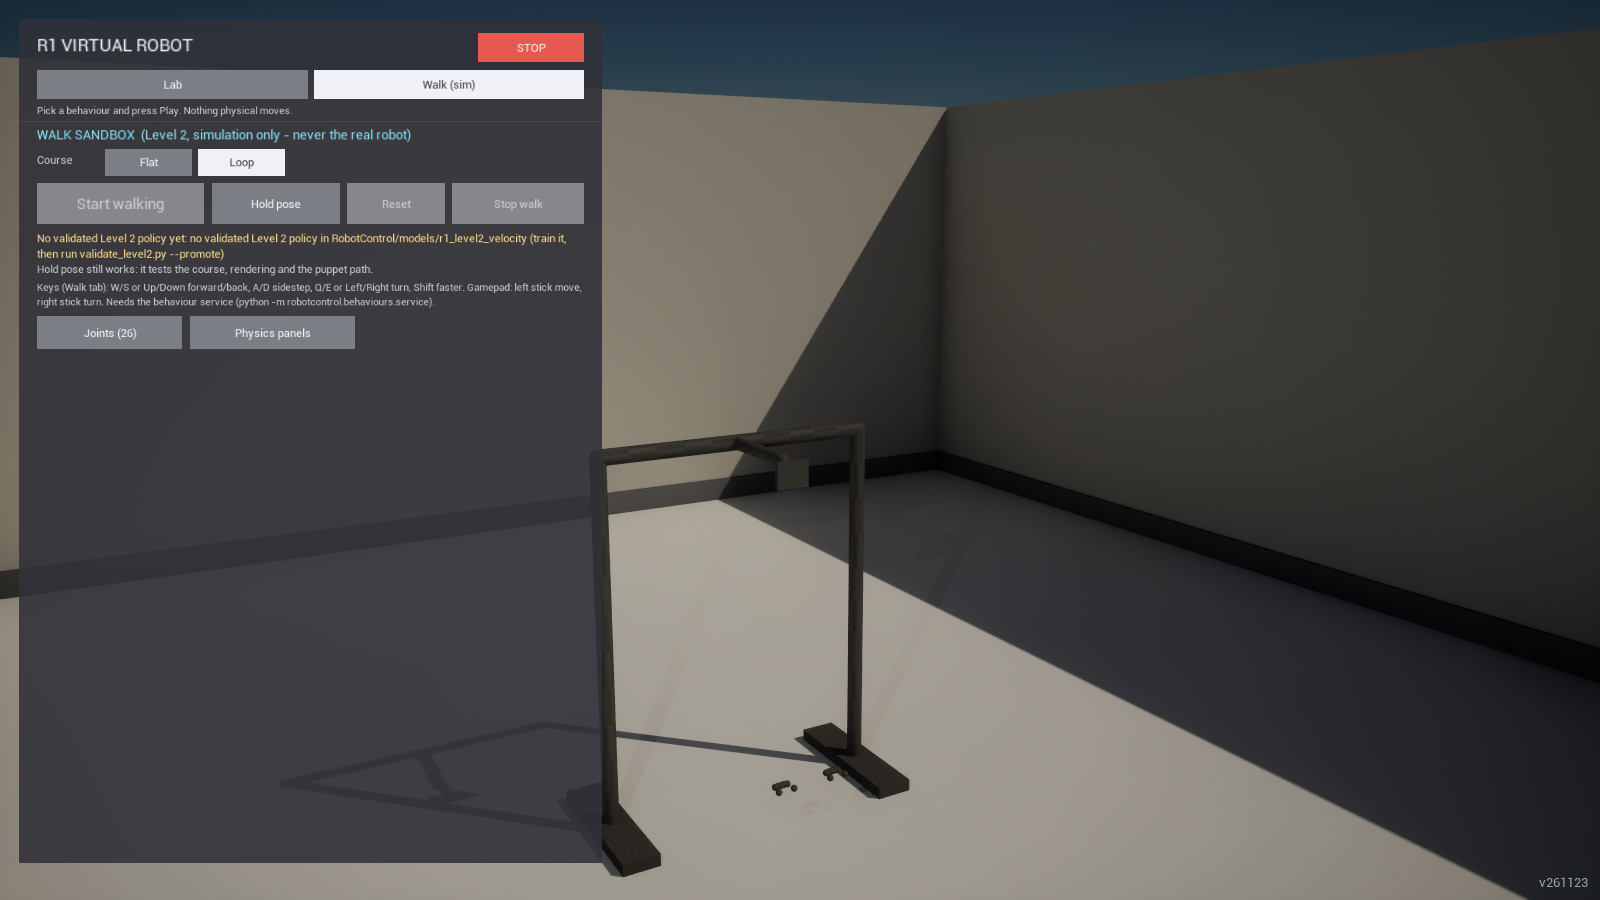
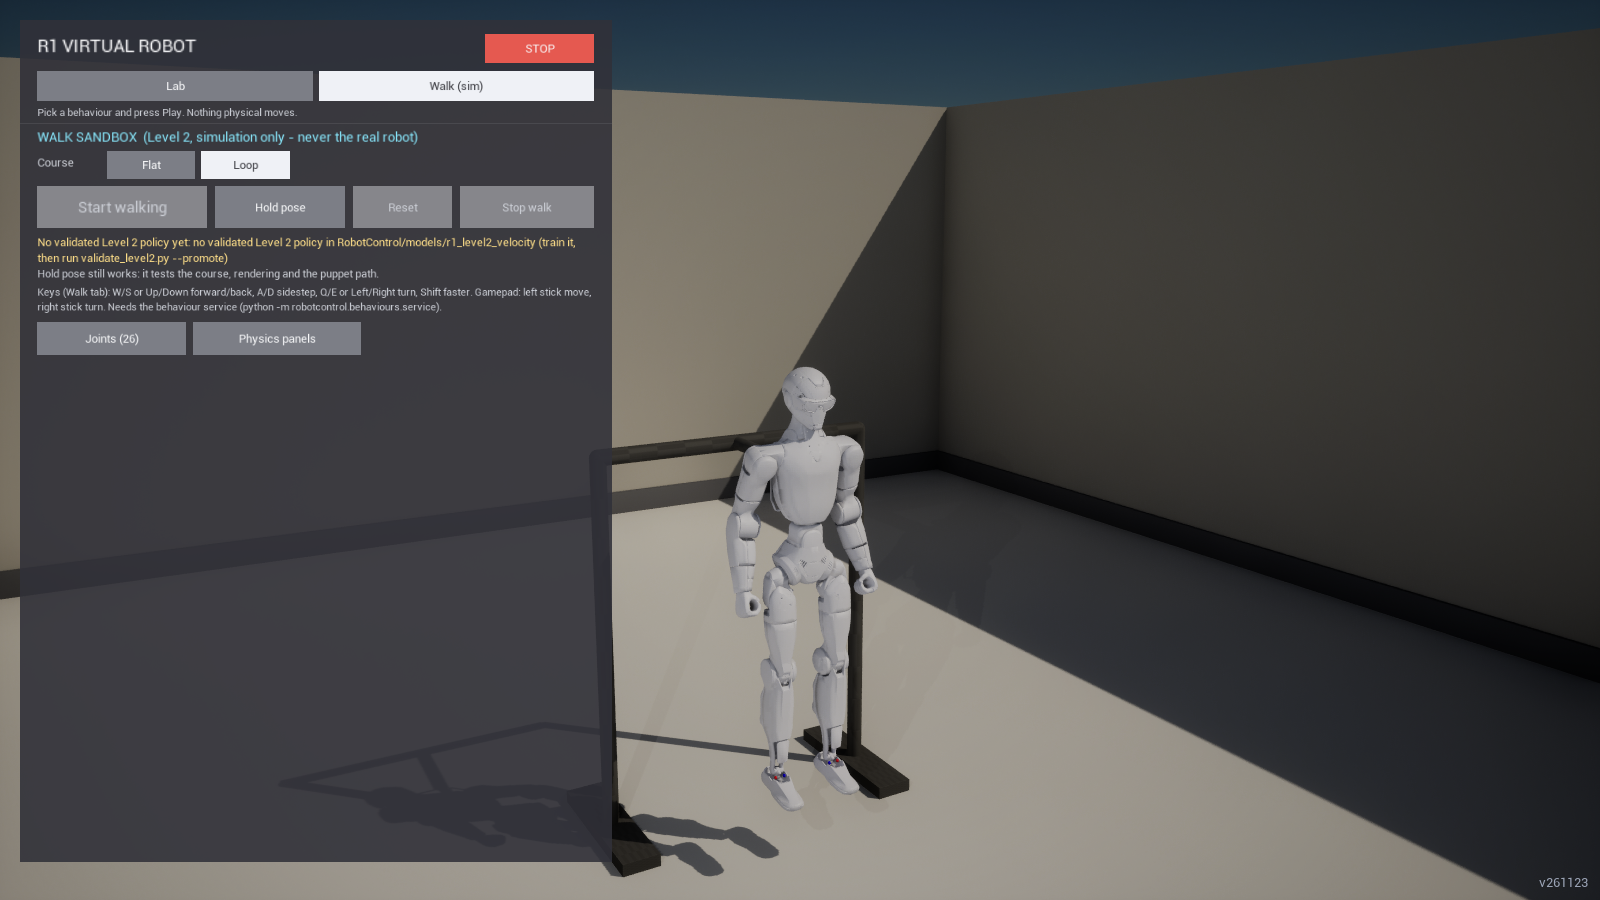
feat: Add support for taught poses in skill library
- Introduced `bPose`, `PoseYawRad`, `PosePitchRad`, and `PoseCommand` to `FR1SkillDef` for handling taught poses.
- Enhanced `R1SkillLibrary.cpp` to parse pose data from JSON, including yaw and pitch angles.
- Implemented validation for required pose fields in JSON.
- Updated `Reference` method to output pose angles when `bPose` is true.
- Added new scenarios for calm and stress testing in the lab environment.
- Created new procedural and push test scenarios for enhanced robot training.
- Developed a comprehensive scenario validation script to ensure scenario integrity.
- Added a new Blazor component for displaying walk simulation features, including physics, motors, battery, action filter, and fall analysis.

diff --git a/SCREENSHOTS/scenario_lab_report.html b/SCREENSHOTS/scenario_lab_report.html
@@ -50,6 +50,13 @@ STOP and Details (<code>R1BehaviourPanel.h</code>).</p>
 <figure><img src="unreal_lab/lab_watch.png" alt="After: Place row, In a room selected"><figcaption>After: the Place row, with <i>In a room</i> selected.</figcaption></figure>
 </div>
 <figure><img src="unreal_lab/lab_outside.png" alt="Outside on a concrete floor"><figcaption>Outside: an open area with a 400 m concrete floor and expansion joints every 4 m near the robot. Look At still tracks the ball (1.8°). The floor casts no shadows, so Unreal's shadow and Lumen budgets stay small.</figcaption></figure>
+<h2>Stand: hooked at the back (2026-11-22)</h2>
+<p>The stand now matches the R1 EDU stand: the crossbar sits behind the robot at mid-back height, and the hook latches onto a plate on the back pack, where the Jetson is. Nothing is at head height.</p>
+<div class="row">
+<figure><img src="unreal_lab/before_place/lab_watch.png" alt="Before: crossbar at head height"><figcaption>Before: the crossbar and hook were at neck height, so the stand looked like it held the head.</figcaption></figure>
+<figure><img src="unreal_lab/lab_watch.png" alt="After: crossbar behind the shoulders"><figcaption>After: the crossbar is behind the shoulders, and Look At still tracks (1.6°).</figcaption></figure>
+</div>
+<figure><img src="unreal_lab/stand_back_hook.png" alt="Rear view: hook on the back pack plate"><figcaption>From behind (MuJoCo render of the same scene file): the arm ends in a hook plate (yellow) on the back pack, inside its handle frame.</figcaption></figure>
 </main>
 </body>
 </html>

diff --git a/docs/scenario_lab.md b/docs/scenario_lab.md
@@ -59,6 +59,25 @@ reloads the skills (picking up a just-trained or rolled-back version), switches 
 While a Python client drives URLab, the lab lets go of the actuators and waits. That covers the web app's twin
 preview with *Twin engine: Unreal*, the live mirror of a real run, and the walk sandbox.
 
+## The stand
+
+The virtual robot hangs on the R1 EDU stand the way the real one does: two posts and a crossbar behind the robot
+at mid-back height, an arm forward, and a hook that latches onto the back pack where the Jetson sits. Nothing is at
+head height, so the head turns and nods freely. The stand is drawn only; the robot is held by a pelvis weld.
+The geometry comes from `scripts/build_mjcf.py`. After changing it, rebuild the MJCF and re-import it into the
+editor (the editor must be open):
+
+```powershell
+.venv\Scripts\python.exe scripts\build_mjcf.py
+.venv\Scripts\python.exe scripts\build_web_twin.py --compress
+.venv\Scripts\python.exe scripts\ue_remote.py scripts\ue_reimport_stand.py --timeout 400
+.venv\Scripts\python.exe scripts\ue_remote.py scripts\ue_finalize_level.py
+```
+
+`ue_reimport_stand.py` replaces `/Game/Project/Agents/MuJoCoImports/scene_stand` in place. It needs
+`scripts/patches/urlab_import_folder.patch` (applied by `scripts/setup_urlab.ps1`), which makes URLab put the
+meshes next to the Blueprint instead of `/Game/MuJoCoImports`.
+
 ## Scripted check
 
 `-PanelCapture=<dir>` runs an unattended scenario and saves a screenshot of each stage, then quits:
